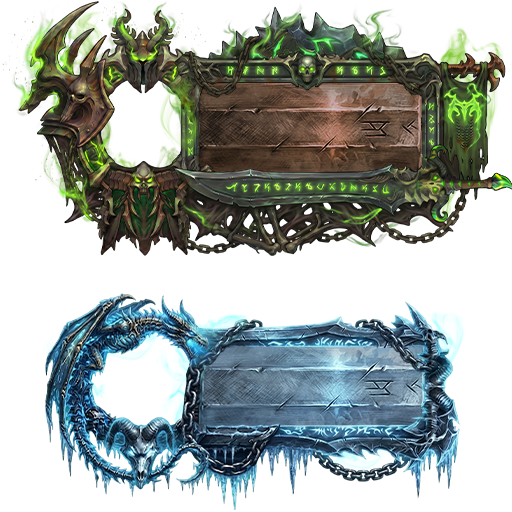
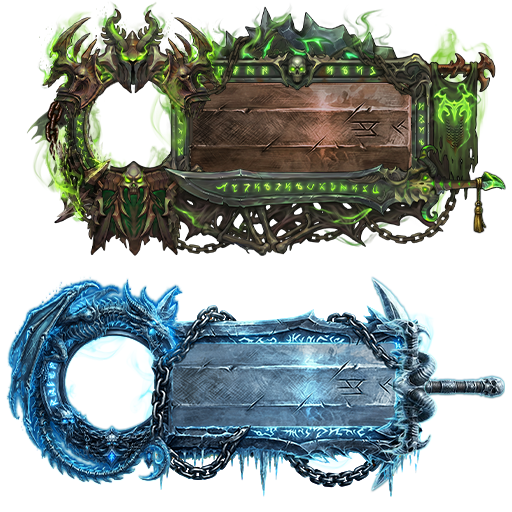
style: Update version to 1.3.7 and add new hunter and warrior frames

diff --git a/README.md b/README.md
@@ -1,7 +1,7 @@
 # EPF Custom Skins
 
 [![License: CC BY-NC-SA 4.0](https://img.shields.io/badge/License-CC%20BY--NC--SA%204.0-blue.svg)](https://creativecommons.org/licenses/by-nc-sa/4.0/)
-[![Version](https://img.shields.io/badge/Version-1.3.6-informational)](ElitePlayerFrame_Enhanced_CustomSkins.toc)
+[![Version](https://img.shields.io/badge/Version-1.3.7-informational)](ElitePlayerFrame_Enhanced_CustomSkins.toc)
 [![WoW](https://img.shields.io/badge/WoW-12.0.7%20(MN)-orange)](https://worldofwarcraft.blizzard.com/)
 [![Lua](https://img.shields.io/badge/Lua-5.x-blue)](https://www.lua.org/)
 

diff --git a/CHANGELOG.md b/CHANGELOG.md
@@ -4,7 +4,17 @@ All notable changes to **EPF Custom Skins** are documented in this file.
 
 The format is based on [Keep a Changelog](https://keepachangelog.com/en/1.1.0/), and this project adheres to [Semantic Versioning](https://semver.org/spec/v2.0.0.html).
 
-## [1.3.6] - 2026-07-09
+## [1.3.7] - 2026-07-26
+
+### Added
+
+- Added new hunter and warrior frames, and slightly alternative paladin tank and retribution versions.
+
+### Changed
+
+- Updated DK unholy and frost frames.
+
+## [1.3.6] - 2026-07-20
 
 ### Added
 
